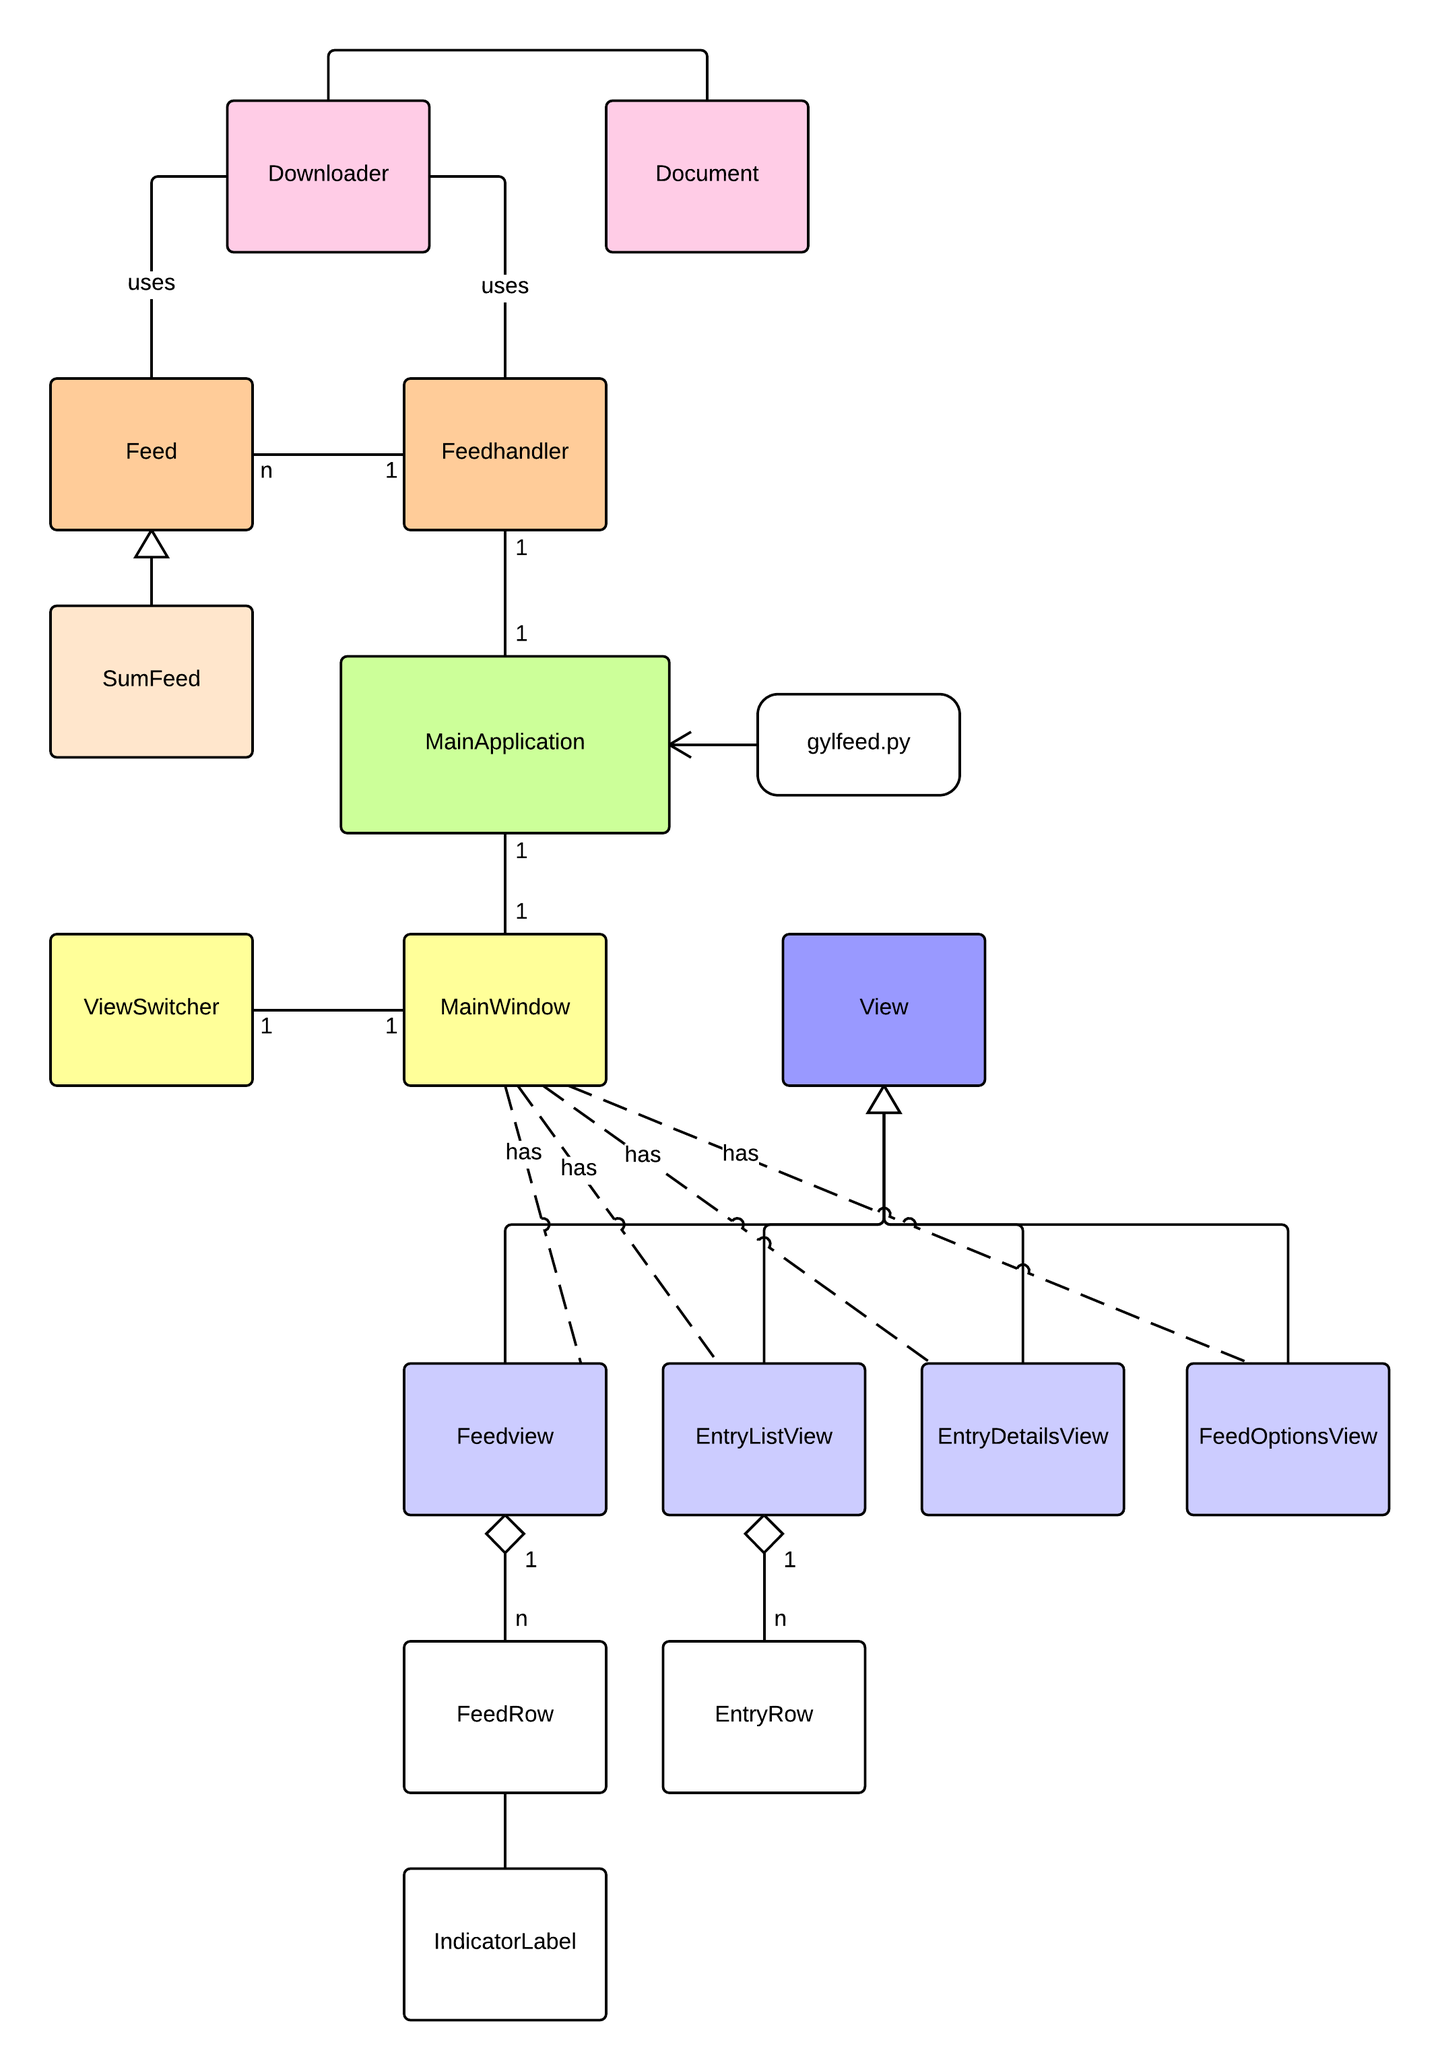
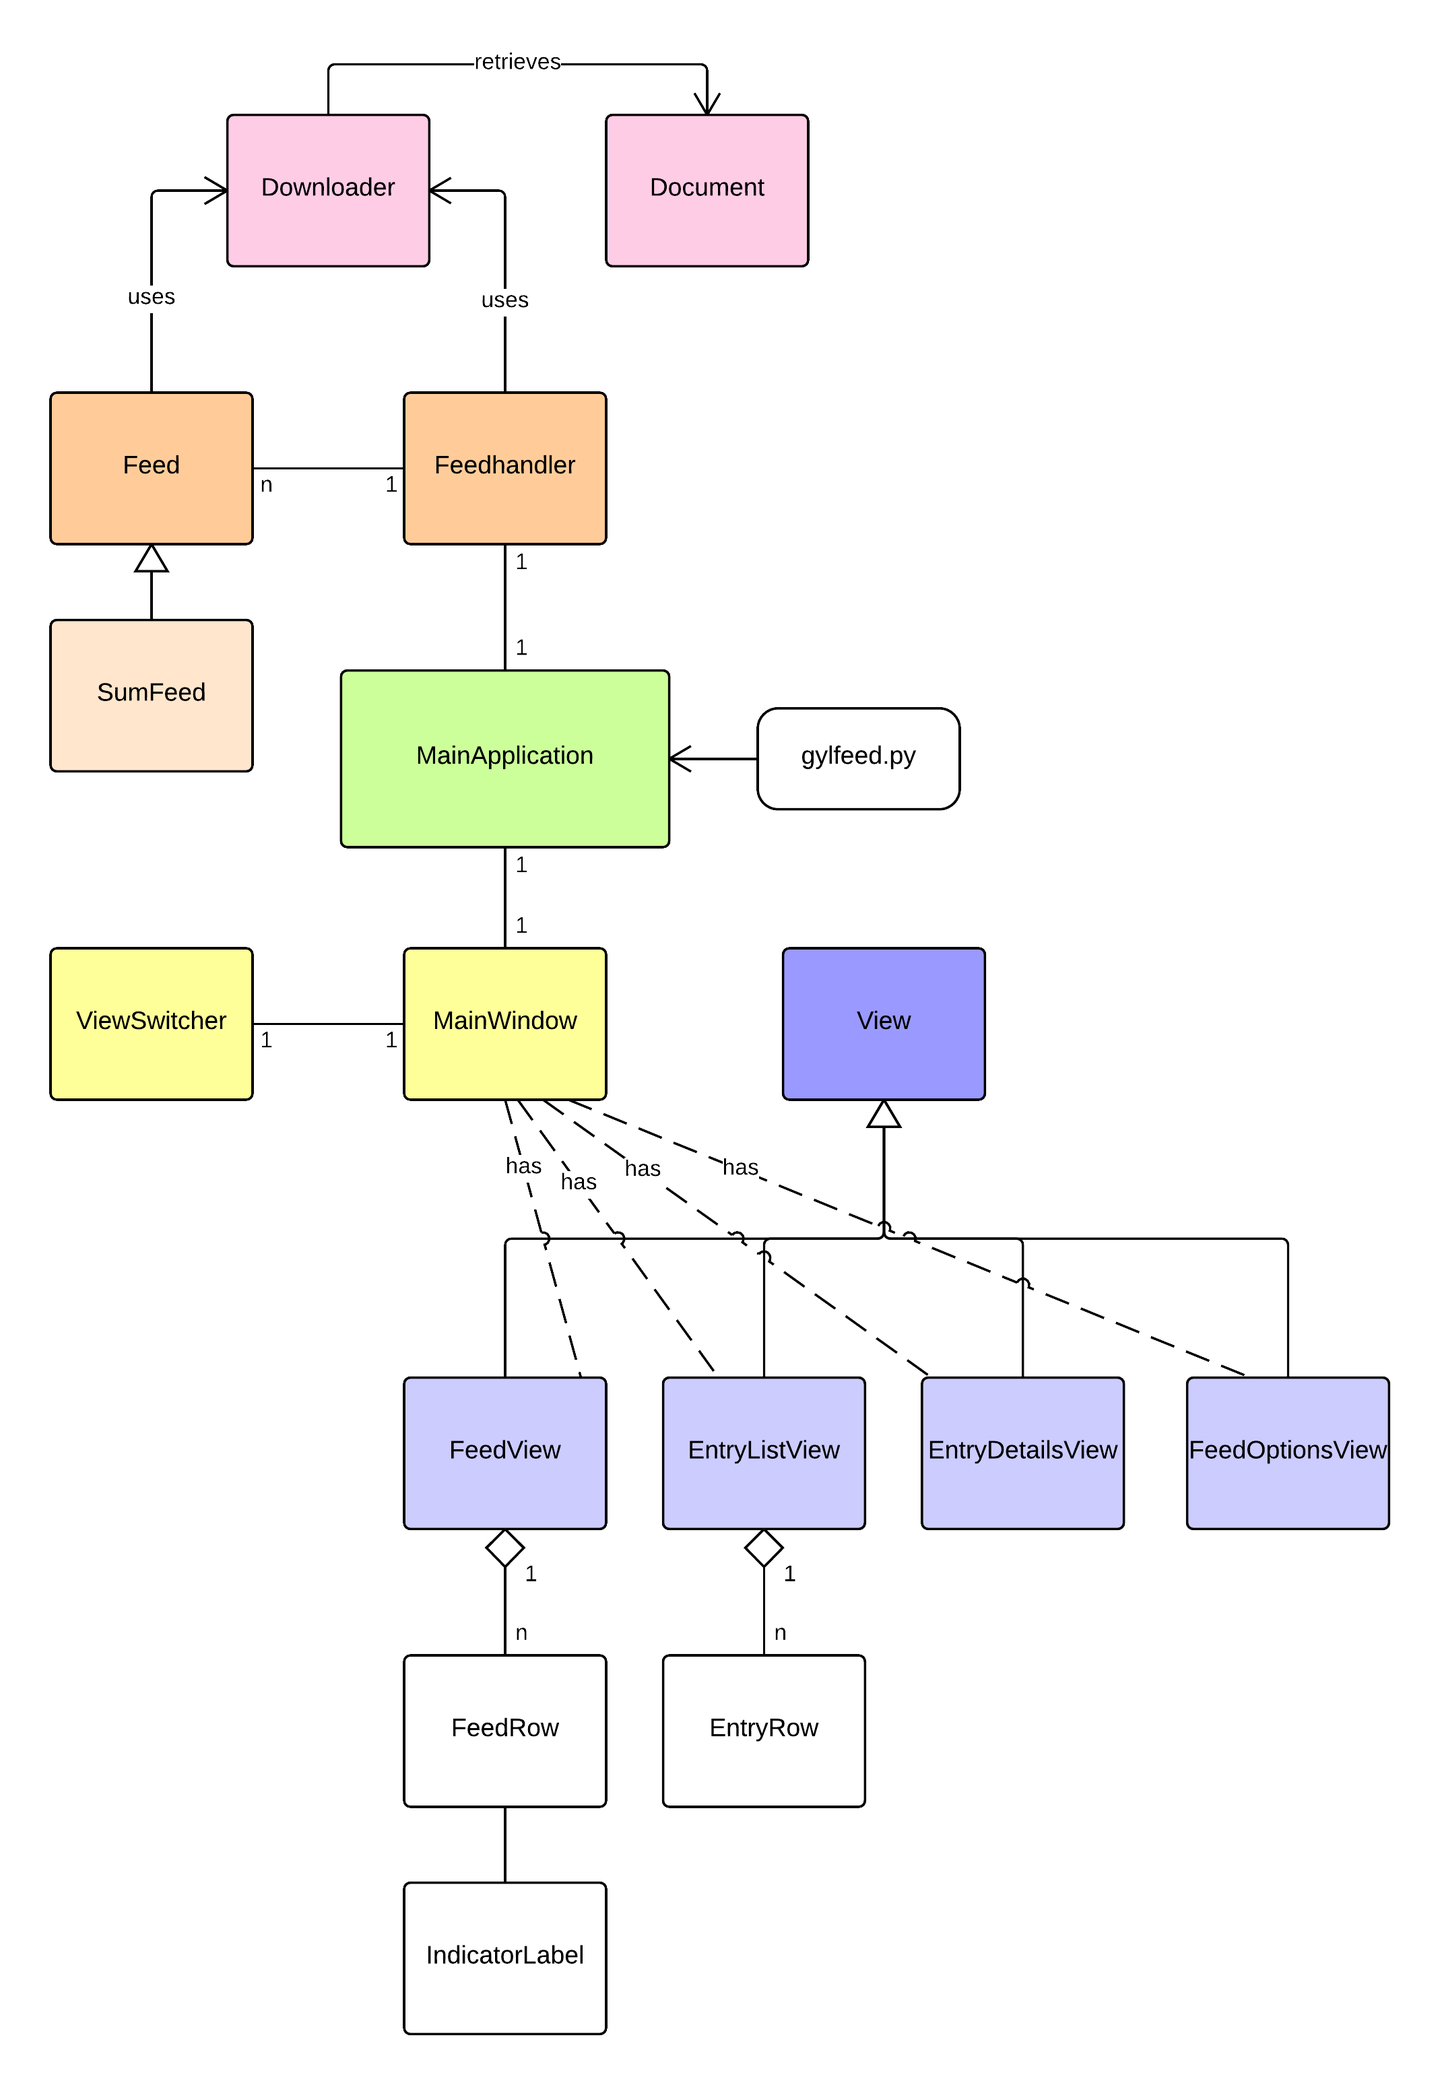
cleanup

diff --git a/rst/V/index.rst b/rst/V/index.rst
@@ -67,20 +67,28 @@ dar. SumFeed kann aufgrund der Ableitung von *Feed* aber wie ein *Feed* agieren.
 Eingesetzt wird diese Klasse für die Darstellung aller vorhandener Feeds.
 
 **Downloader:** Die Klasse *Downloader* beschafft die von den Klassen *Feed* und
-*Feedhandler* angefragten Daten. Hierzu verwendet sie die Klasse *Document*.
+*Feedhandler* angefragten Daten. Sie verwendet die Klasse *Document*.
 
-**Document:** Ermöglicht den asynchronen Download der Feed-Daten. 
+**Document:** Die Klasse *Document* ist eine Future-Klasse und wird von der Klasse *Downloader*
+verwendet. 
 
 **MainWindow:** Eine Instanz der Klasse *MainWindow* wird durch die Klasse *MainApplication*
 erstellt. *MainWindow* beinhaltet die Unteransichten *FeedView*,
 *EntryListView*, *EntryDetailsView* und *FeedOptionsView*. *MainWindow* arbeitet
 mit einem Stack, für dessen Verwaltung die Klasse *ViewSwitcher* benutzt wird.
+Bei einem Stack handelt es sich in diesem Zusammenhang um einen Container zur
+Verwaltung der verschiedenen Ansichten -- ein Objekt der Klasse Gtk.Stack.
 
 **ViewSwitcher:** Die Klasse *MainWindow* instanziiert einen *ViewSwitcher*.
 Dieser ist für die Verwaltung der einzelnen Views zuständig.
 
-**View:** View ist die abstrakte Oberklasse von *FeedView*, *EntryListView*,
-*EntryDetailsView* und *FeedOptionsView*.
+**View:** *View* ist die abstrakte Oberklasse von *FeedView*, *EntryListView*,
+*EntryDetailsView* und *FeedOptionsView*. *View* stellt für die Unterklassen
+eine standardisierte Implementierung für eine Ansicht zur Verfügung. Innerhalb von *View* wird
+die Suchleiste implementiert und verwaltet, die von den Unterklassen individuell
+benutzt wird. *View* selbst erbt von Gtk.Grid und beinhaltet ein
+Gtk.ScrolledWindow -- ein scrollbares Fenster -- das von den Unterklassen
+benutzt wird, um Inhalte darzustellen.
 
 **FeedView:** *FeedView* leitet von der Oberklasse *View* ab und beihnaltet
 selbst n *FeedRows*. Diese spezialisierte View wird die vorhandenen Feeds
@@ -91,8 +99,8 @@ anzeigen.
 entspricht einer *FeedRow*.
 
 **IndicatorLabel:** Ermöglicht individualisierte Darstellung von Labels.
-Innerhalb *gylfeed* werden die Labels für die Darstellung der Anzahl an 
-neuen, ungelesenen und aller Nachrichten verwendet.
+Innerhalb *gylfeed* werden die Labels für die Darstellung der Anzahl 
+neuer, ungelesener und aller Nachrichten verwendet.
 Die Klasse *IndicatorLabel* ist eine Spezialisierung von 
 *Gtk.Label*.
 
@@ -141,13 +149,14 @@ dies wird innerhalb der Bachelorarbeit näher betrachtet.
     Das Grundkonzept von *gylfeed*.
 
 
-Im nächsten Schritt empfängt der Downloader die Daten aus dem Web (3). Die Instanz
-Document wird dazu verwendet, einen asynchronen Download der Daten zu
-ermöglichen (4). Die Instanz des Documents wird an den Feed zur weiteren
+Im nächsten Schritt empfängt der Downloader die Daten aus dem Web (3). 
+Document wird vom Downloader als Future-Klasse verwendet (4).
+Die Instanz des Documents wird an den Feed zur weiteren
 Verarbeitung gegeben (5). Das Weiterverarbeiten im Feed wird dadurch ausgelöst,
 indem sich der Feed auf ein Signal von der Instanz Document registriert. Sobald
 das Document komplett heruntergeladen ist, wird das entsprechende Signal
 ausgelöst und die im Document enthaltenen Daten werden im Feed geparst (6).
+Signale werden im Anschluss an die Beschreibung der Abbildung näher erläutert.
 
 Der Feed kommuniziert an den Feedhandler, dass er sich aktualisiert hat. Der
 Feedhandler reicht das Signal an die Benutzeroberfläche weiter. Die Änderungen
@@ -194,6 +203,17 @@ Codebeispiel soll das erläuterte Prinzip nochmals anschaulich darstellen.
 
     Gtk.main()                                  # Gtk Main-Loop
 
+Es können nicht nur bereits vorhandene Signale verwendet werden, sondern eigene
+Signale definiert werden. Hierzu ist es notwendig, dass die Instanz, die ein
+Signal anbieten möchte, von GObject.Object erbt. Innerhalb der Projektarbeit 
+bietet beispielsweise die Klasse *Document* das Signal *finished* an. Die Klasse
+Feed, die dieses Signal nutzen möchte verknüpft sich mit dem Signal. Feed ist
+daran interessiert, benachrichtigt zu werden, sobald dieses Signal ausgelöst
+wird. Beim Verknüpfen mit dem Signal ist ebenso wie in obigem Codeblock die
+Angabe einer Callback-Funktion notwendig. Nun sind die Voraussetzungen
+geschaffen, um im Quellcode bei Bedarf das Signal auszulösen. Beispielsweise
+wird das Signal *finished* ausgelöst, wenn der asynchrone Download beendet ist.
+
 
 Beschreibung der Schnittstellen
 ===============================
@@ -239,7 +259,7 @@ wird ein Update für jeden Feed ausgelöst.
 ``delete_feed(feed)``: Löscht den im Funktionsaufruf übergebenen *Feed*.
 
 ``delete_old_entries()``: Ruft für jeden im Feedhandler geführten *Feed* 
-deren Funktion delete_old_entries() auf.
+deren Funktion delete_old_entries(max_days) auf.
 
 ``save_to_disk()``: Speichert die zu serialisierenden Daten auf Festplatte.
 Hierzu wird die Hilfsfunktion ``get_serializable_data()`` herangezogen.
@@ -258,15 +278,15 @@ werden. Für diese Argumente - hier als args zusammengefasst - sind Default-Wert
 müsssen nicht zwingend übergeben werden. 
 
 ``add_updater(update_interval=None)``: Fügt dem Feed unter Angabe des
-Update-Intervalls ein Timeout für ein automatisches Update hinzu. 
+Update-Intervalls in Minuten ein Timeout für das automatische Update hinzu. 
 
 ``update()``: Veranlasst für den aufgerufenen Feed ein Update. Hierzu wird die
 Funktionalität der Klasse *Downloader* verwendet.
 
-``delete_old_entries(day_range=None)``: Durchläuft die Entries eines Feeds 
-und markiert diejenigen Entries als gelöscht, die der angegebenen day_range
-entsprechen. Wird die day_range nicht explizit gesetzt, wird ein Standardwert
-von 30 Tagen angenommen.
+``delete_old_entries()``: Durchläuft die Entries eines Feeds 
+und markiert diejenigen Entries als gelöscht, die dem Wert entsprechen, der in den
+Einstellungen des Feeds gesetzt ist. Dieser Wert entspricht standardmäßig 30 Tagen
+und kann durch den Benutzer geändert werden.
 
 Die Klasse *Feed* bietet noch zahlreiche interne Funktionen. Ausgehend vom
 Aufruf der Funktion ``update()`` wird beispielsweise intern die Funktion
@@ -327,11 +347,11 @@ der Klasse *Feedhandler*. Innerhalb des Konstruktors wird der Konstruktor der
 Oberklasse, Gtk.ApplicationWindow, aufgerufen. 
 
 ``add_widget_to_headerbar(widget, start_or_end)``: Fügt das übergebene
-Widget der Headerbar hinzu. Mit start_or_end kann durch Übergabe eines 
+Widget der Header Bar hinzu. Mit start_or_end kann durch Übergabe eines 
 Strings die Position des Widgets bestimmt werden.
 
 ``remove_widget_from_headerbar(widget)``: Entfernt das an die Funktion
-übergebene Widget aus der Headerbar.
+übergebene Widget aus der Header Bar.
 
 Neben diesen öffentlich angebotenen Schnittstellen hat *MainWindow*
 zahlreiche interne Funktionen.
@@ -460,7 +480,7 @@ Konstruktors wird der Konstruktor der Oberklasse *View* aufgerufen.
 
 ``on_view_enter()``: Führt alle Aktionen aus, die beim Aufruf von
 *EntryDetailsView* notwendig sind. Beispielsweise Einstellungen für den
-Button-Switcher in der Headerbar.
+View Switcher in der Header Bar.
 
 ``on_view_leave()``: Führt alle Aktionen aus, die beim Verlassen von
 *EntryDetailsView* notwendig sind.
@@ -480,14 +500,14 @@ Konstruktors wird der Konstruktor der Oberklasse *View* aufgerufen.
 
 ``on_view_enter()``: Führt alle Aktionen aus, die beim Aufruf von
 *FeedOptionsView* notwendig sind. Beispielsweise werden in dieser Ansicht in
-der Headerbar Buttons für zustimmende Aktionen und ablehnende Aktionen
+der Header Bar Buttons für zustimmende Aktionen und ablehnende Aktionen
 angeboten. Dies wird je nach vorher gewählter Funktion passend dargestellt.
 Das Hinzufügen eines Feeds erfordert andere Button-Beschriftungen, als der
 Aufruf der Einstellungen eines bestehenden Feeds.
 
 ``on_view_leave()``: Führt alle Aktionen aus, die beim Verlassen von
 *FeedOptionsView* notwendig sind. Beispielsweise das Entfernen von Buttons
-aus der Headerbar.
+aus der Header Bar.
 
 ``show_options_filled(feedview, feed)``: Zeigt die gespeicherten Einstellungen 
 eines Feeds an. Als Übergabeparameter wird die *FeedView* und der gewählte *Feed* 

diff --git a/rst/II/index.rst b/rst/II/index.rst
@@ -22,7 +22,8 @@ oder Atom erstellt werden. Wittenbrink nennt vier Einsatzszenarien:
  * Asynchrones Broadcasting
 
 Anzumerken ist, dass neben RSS und Atom weitere Formate, wie z.B. Scripting
-News, OPML oder NewsML entwickelt wurden (vgl. :cite:`FU` -- Übersicht Formate).
+News, OPML(Outline Processor Markup Language) oder NewsML entwickelt wurden 
+(vgl. :cite:`FU` -- Übersicht Formate).
 Im Weiteren wird das Hauptaugenmerk auf den Formaten RSS und Atom liegen.
 
 Bevor auf die Formate näher eingegangen wird, soll nun die Funktionsweise von
@@ -138,9 +139,9 @@ Das Format RSS
 ---------------
 Die erste Version von RSS, RSS 0.90, wurde 1997 von Netscape entwickelt. 
 Zu dieser Zeit trug RSS die Bedeutung *Rich Side Summary*. Es
-folgten die Versionen 0.91, 0.92, 0.93 und 1.0. Im Jahr 2003 wurde von Harvard
-die Version 2.0 veröffentlicht. Die Version 2.0 basiert nicht, wie zu vermuten
-wäre, auf der Version 1.0, sondern auf der Version 0.92 (vgl. :cite:`HU` - Versionsübersicht von Harvard).
+folgten die Versionen 0.91, 0.92, 0.93 und 1.0. Im Jahr 2002 entwickelte Dave
+Winer die Version 2.0, die von Harvard-Law 2003 veröffentlicht wurde. Die Version 2.0 basiert nicht, wie zu vermuten
+wäre, auf der Version 1.0, sondern auf der Version 0.92 (vgl. :cite:`HU` - Versionsübersicht von Harvard-Law).
 Im Laufe dieser Entwicklungen wurde *Really Simple Syndication* als Bedeutung für die Abkürzung RSS eingeführt.
 Die einzelnen Versionen unterscheiden sich darin, dass Attribute neu
 hinzugefügt, oder auch in späteren Versionen wieder entfernt wurden.
@@ -192,31 +193,31 @@ können, soll das XML von einem beispielhaften Atom-Feed betrachtet werden:
             <generator uri="http://www.example.com/" version="1.0">
             Example Toolkit
             </generator>
-        <entry>
-            <title>Title of Entry</title>
-            <summary> Summary of Entry</summary>
-            <link rel="alternate" type="text/html"
-            href="http://example.org/2005/04/02/atom"/>
-            <link rel="enclosure" type="audio/mpeg" length="1337"
-            href="http://example.org/audio/ph34r_my_podcast.mp3"/>
-            <id>tag:example.org,2003:3.2397</id>
-            <updated>2005-07-31T12:29:29Z</updated>
-            <published>2003-12-13T08:29:29-04:00</published>
-            <author>
-                <name>Name of Author</name>
-                <uri>http://example.org/</uri>
-                <email>author@example.com</email>
-            </author>
-            <contributor>
-                <name>Name of Contributor</name>
-            </contributor>
-            <content type="xhtml" xml:lang="en"
-            xml:base="http://example.org/">
-            <div xmlns="http://www.w3.org/1999/xhtml">
-            <p><i>[Update: The Atom draft is finished.]</i></p>
-            </div>
-           </content>
-        </entry>
+            <entry>
+                <title>Title of Entry</title>
+                <summary> Summary of Entry</summary>
+                <link rel="alternate" type="text/html"
+                href="http://example.org/2005/04/02/atom"/>
+                <link rel="enclosure" type="audio/mpeg" length="1337"
+                href="http://example.org/audio/ph34r_my_podcast.mp3"/>
+                <id>tag:example.org,2003:3.2397</id>
+                <updated>2005-07-31T12:29:29Z</updated>
+                <published>2003-12-13T08:29:29-04:00</published>
+                <author>
+                    <name>Name of Author</name>
+                    <uri>http://example.org/</uri>
+                    <email>author@example.com</email>
+                </author>
+                <contributor>
+                    <name>Name of Contributor</name>
+                </contributor>
+                <content type="xhtml" xml:lang="en"
+                xml:base="http://example.org/">
+                <div xmlns="http://www.w3.org/1999/xhtml">
+                <p><i>[Update: The Atom draft is finished.]</i></p>
+                </div>
+               </content>
+            </entry>
         </feed>
 
 

diff --git a/rst/IV/index.rst b/rst/IV/index.rst
@@ -13,13 +13,12 @@ funktionale Anforderungen und Anforderungen an die grafische Benutzeroberfläche
 Allgemeine Anforderungen
 ========================
 
-Die Entwicklung erfolgt unter der GNU General Public License in der Version 3.0
-(vgl. :cite:`GNUGPL` - offizielle Seite von GNU GPL).
-
 Mit *gylfeed* soll ein leichtgewichtiger Feedreader entwickelt werden, an den
 folgende allgemeine Anforderungen gestellt werden:
 
-* Entwicklung unter Linux
+* Die Entwicklung erfolgt unter der GNU General Public License in der Version
+  3.0 (vgl. :cite:`GNUGPL` -- offizielle Seite von GNU GPL).
+* Entwicklung für Linux-Distributionen
 * Entwicklung als Open-Source-Projekt
 * Neues Konzept hinsichtlich der grafischen Oberfläche
 * Komfortable Bedienung
@@ -50,7 +49,7 @@ Optionen für Feeds
 **Automatisches Update:** Für jeden Feed kann entschieden werden, ob dieser
 automatisch aktualisiert werden soll.
 
-**Updateintervall:** Wurde die Einstellung *Automatisches Update* gewählt, kann
+**Update-Intervall:** Wurde die Einstellung *Automatisches Update* gewählt, kann
 zusätzlich eingestellt werden, in welchem Intervall dies geschehen soll.
 
 **Notifications:** Sind neue Nachrichten vorhanden, wird eine Systemnachricht gesendet.
@@ -80,10 +79,10 @@ behindert.
 Suche
 -----
 
-**Suche innerhalb von Feeds:** Ein Feed innerhalb der Gesamtheit der Feeds ist
+**Suche innerhalb von Feeds:** Ein Feed innerhalb der Liste von Feeds ist
 suchbar. Die Ergebnisse werden angezeigt.
 
-**Suche innerhalb von Entries nach Titel:** Ein Entry innerhalb der Gesamtheit der
+**Suche innerhalb von Entries nach Titel:** Ein Entry innerhalb der Liste von
 Entries ist suchbar. Die Ergebnisse werden angezeigt.
 
 

diff --git a/rst/III/index.rst b/rst/III/index.rst
@@ -12,15 +12,17 @@ Der Großteil der vorhandenen Feedreader, in diesem Fall speziell Feedreader, di
 als eigenständige Desktopsoftware funktionieren, sind an den Aufbau eines
 Mailclients angelehnt.
 Als Veranschaulichung wird der Feedreader *Liferea* herangezogen. *Liferea*
-deshalb, weil er wie es *gylfeed* sein wird:
+wurde deshalb ausgewählt, weil er die folgenden Eigenschaften besitzt, die auch
+für *gylfeed* vorgesehen sind:
 
- * Für Linux entwickelt ist.
- * GTK als Oberflächentechnik verwendet.
- * Unter GNU GPL lizenziert ist.
- * Den Anspruch erhebt, leicht bedienbar zu sein.
+ * Entwickelt für Linux-Distributionen.
+ * Verwendung von GTK als Oberflächentechnik.
+ * Lizenzierung unter GNU GPL.
+ * Leichte Bedienbarkeit.
 
-Weitere Desktop-Feedreader, die vergleichbar im Aufbau sind, wären beispielsweise *RSSOwl*,
-*Vienna* oder *QuiteRSS*. Zu *RSSOwl* und *QuiteRSS* sind im Anhang A
+Weitere Desktop-Feedreader, die vergleichbar im Aufbau sind, wären beispielsweise *RSSOwl*
+(:cite:`RSSOwl`),
+*Vienna* (:cite:`Vienna`) oder *QuiteRSS* (:cite:`QRSS`). Zu *RSSOwl* und *QuiteRSS* sind im Anhang A
 (:ref:`feedreader`) Screenshots zu sehen. 
 
 
@@ -67,7 +69,7 @@ Anordnung dieser beiden Fenster gibt es zusätzlich Einstellmöglichkeiten.
 Im Grunde liegt hier tatsächlich der Aufbau eines klassischen Mailclients vor.
 
 Neben den genannten Funktionalitäten kann über einen separaten
-Einstellungsdialog beispielsweise das Updateintervall oder Optionen für Ordner
+Einstellungsdialog beispielsweise das Update-Intervall oder Optionen für Ordner
 gesetzt werden. 
 
 Es können die Formate RSS, Atom, CDF(Common Data Format), OCS(Open Collaboration Services) 

diff --git a/rst/abbrevs.rst b/rst/abbrevs.rst
@@ -23,6 +23,7 @@
     Abkürzung                Bedeutung
     =======================  ==================================
     API                      *Application Programming Interface*
+    CSS                      *Cascading Style Sheets*
     GTK                      *GIMP Toolkit*
     GUI                      *Graphical User Interface*
     PEP                      *Python Enhancement Proposals*
